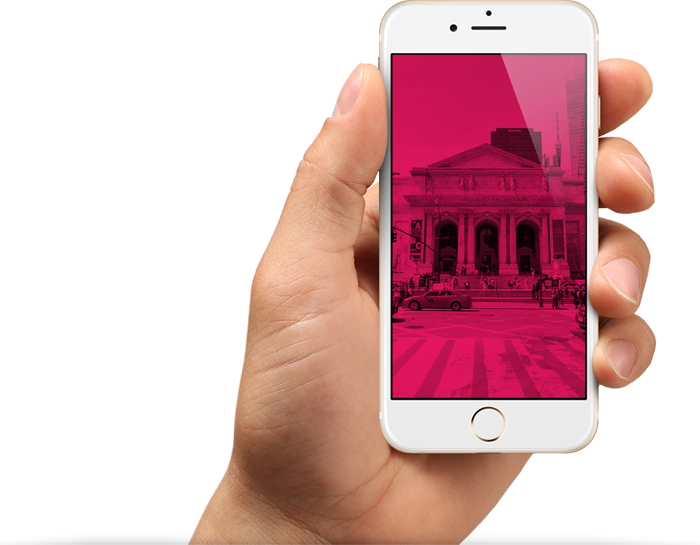
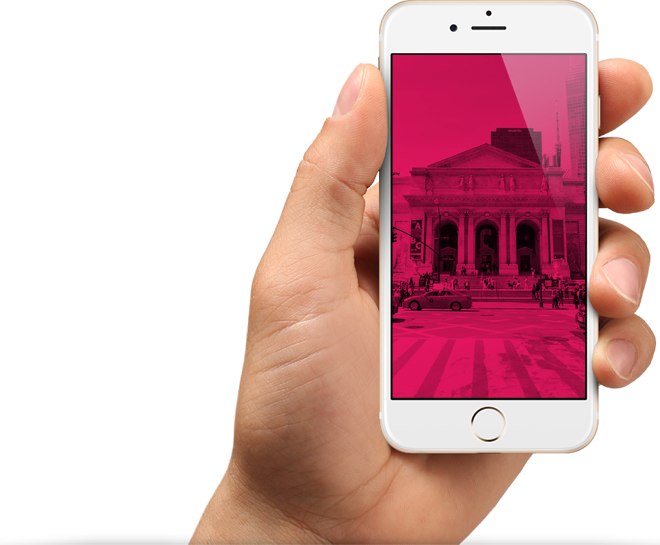
Поправила .intro__image

Changed region(s): [[0.2424, 0.0, 1.0, 1.0], [0.6364, 0.0312, 0.7576, 0.0624]]

diff --git a/source/less/blocks/intro.less b/source/less/blocks/intro.less
@@ -89,7 +89,7 @@
     top: -163px;
     left: -40px;
 
-    width: 700px;
+    width: 660px;
     height: 545px;
   }
 
